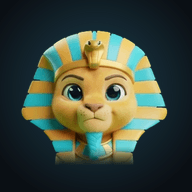
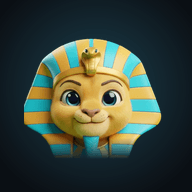
Iconos de Esfinx desde la esfinge de Gemini a 1024 px (fondo verde quitado): más nítidos
Claude-Session: https://claude.ai/code/session_01Y7re53wsFjwzYDgvJohpfQ

diff --git a/tools/generar-iconos.js b/tools/generar-iconos.js
@@ -1,4 +1,4 @@
-// Genera los iconos de la app a partir de la esfinge (prototipos/avatares/i-esfinge/neutral.png, 512 px con alfa):
+// Genera los iconos de la app a partir de la esfinge (prototipos/avatares/i-esfinge/esfinge-1024.png: la imagen de Gemini de Carlos a 1024 px con el fondo verde quitado):
 // iconos/esfinx-180.png (apple-touch-icon), esfinx-192.png, esfinx-512.png y esfinx-512-maskable.png.
 // Fondo #0b0f14 con un leve degradado cian; cabeza y nemes centrados dentro de la zona segura del 80 %
 // (círculo central de diámetro 0,80 del lado; el maskable, con más margen, 0,66).
@@ -10,11 +10,11 @@ import sharp from 'sharp';
 
 const __dirname = path.dirname(fileURLToPath(import.meta.url));
 const RAIZ = path.resolve(__dirname, '..');
-const FUENTE = path.join(RAIZ, 'prototipos/avatares/i-esfinge/neutral.png');
+const FUENTE = path.join(RAIZ, 'prototipos/avatares/i-esfinge/esfinge-1024.png');
 
 // Cabeza y nemes dentro de la imagen fuente (la caja que los contiene y el punto donde se desvanece el cuerpo).
-const CAJA = { left: 70, top: 20, width: 370, height: 330 };
-const DESVANECER_DESDE = 285;
+const CAJA = { left: 260, top: 150, width: 540, height: 470 };
+const DESVANECER_DESDE = 390;
 
 const SALIDAS = [
   { nombre: 'esfinx-180.png', lado: 180, zona: 0.8 },
